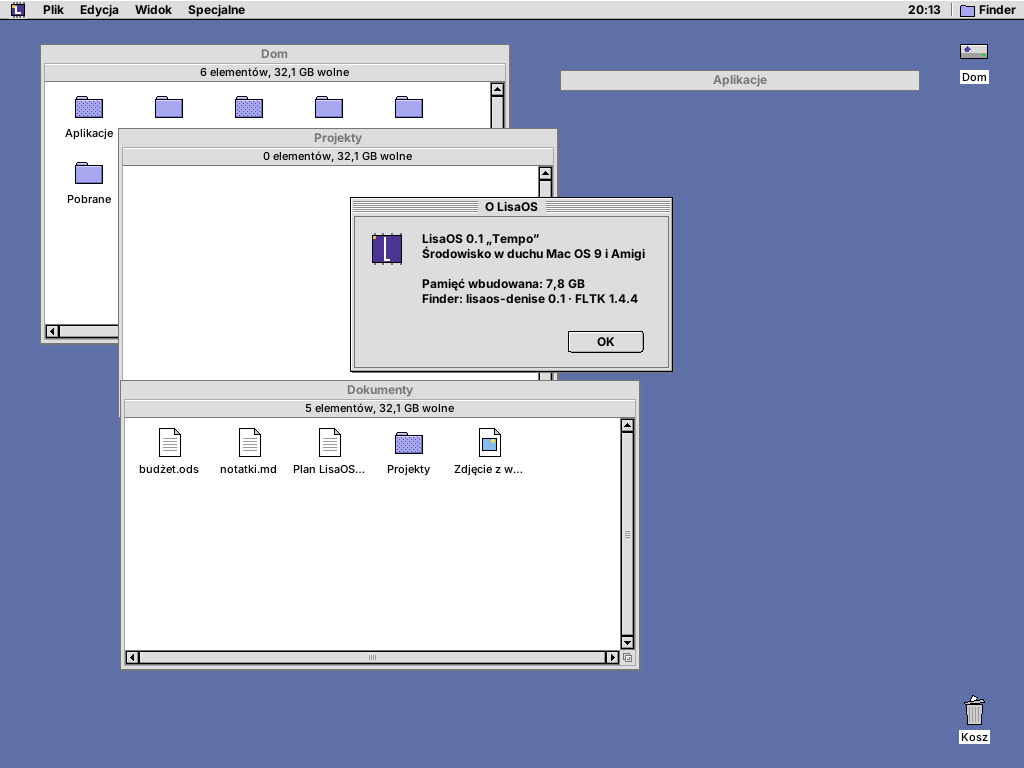
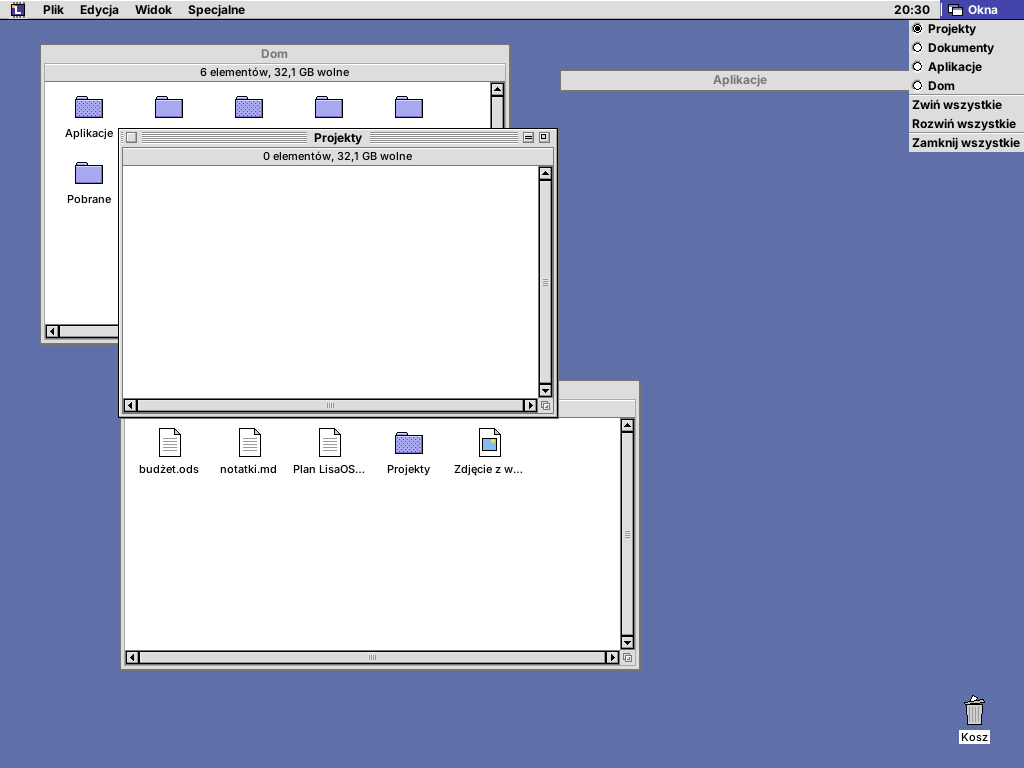
Menu Okna zamiast etykiety Finder
Prawa strona paska menu ma teraz działające menu z listą otwartych
folderów oraz akcjami: zwiń, rozwiń i zamknij wszystkie okna.
Z interfejsu i dokumentacji zniknęła nazwa Finder.

Claude-Session: https://claude.ai/code/session_01CEnPw5iqhrU7RkhjuakvKB

Changed region(s): [[0.0938, 0.25, 0.6562, 0.5625], [0.875, 0.0, 1.0, 0.2188], [0.0938, 0.1562, 0.5625, 0.2188]]

diff --git a/denise/desktop.h b/denise/desktop.h
@@ -1,8 +1,9 @@
-// LisaOS - denise: biurko, pasek menu i zarządzanie oknami Findera
+// LisaOS - denise: biurko, pasek menu i zarządzanie oknami menedżera plików
 #pragma once
 
 #include <FL/Fl_Double_Window.H>
 #include <FL/Fl_Menu_Bar.H>
+#include <FL/Fl_Menu_Button.H>
 #include <FL/Fl_Tiled_Image.H>
 #include <functional>
 #include <memory>
@@ -33,6 +34,9 @@ public:
   void ask_root();
   void refresh_all();
   void quit();
+  void build_windows_menu(Fl_Menu_Button *m);
+  void shade_all(bool shade);
+  void close_all();
 
 private:
   struct Win {

diff --git a/denise/spatial.h b/denise/spatial.h
@@ -1,4 +1,4 @@
-// LisaOS - denise: pamięć przestrzenna Findera
+// LisaOS - denise: pamięć przestrzenna menedżera plików
 // Każdy folder pamięta, gdzie i jak duże było jego okno oraz czy było otwarte.
 // Plik: $XDG_CONFIG_HOME/lisaos/denise.okna (domyślnie ~/.config/...)
 #pragma once

diff --git a/README.md b/README.md
@@ -7,14 +7,14 @@ Lekkie środowisko graficzne dla Linuksa (baza: minimalny Devuan) w duchu
   Aplikacje to pliki AppImage leżące w `~/Aplikacje`; instalacja = przeciągnięcie pliku.
 - **Tryb root**: pełny system plików i ustawienia zaawansowane, uruchamiany przez
   `pkexec`, wyraźnie oznaczony (czerwony chip w logo, plakietka ROOT).
-- **Finder przestrzenny**: jeden folder = jedno okno, które pamięta swoje położenie.
+- **Przestrzenny menedżer plików (Denise)**: jeden folder = jedno okno, które pamięta swoje położenie.
 
 ## Komponenty
 
 | Pakiet              | Rola                                   | Stan        |
 |---------------------|----------------------------------------|-------------|
 | `lisaos-platinum`   | biblioteka wyglądu: kolory, ramki, ikony, chrome okien | prototyp |
-| `lisaos-denise`     | Finder + biurko                         | prototyp    |
+| `lisaos-denise`     | menedżer plików + biurko                | prototyp    |
 | `lisaos-agnus`      | menedżer okien X11 (chrome z libplatinum) | planowany |
 | `lisaos-gary`       | globalny pasek menu, przełącznik aplikacji | planowany |
 | `lisaos-alice`      | panele sterowania                       | planowany   |

diff --git a/docs/ARCHITEKTURA.md b/docs/ARCHITEKTURA.md
@@ -4,7 +4,7 @@
 
     Devuan (runit, elogind, polkit)  ->  X11 (Xorg/XLibre)  ->  lisaos-agnus (WM)
                                                               ->  lisaos-gary (pasek menu)
-                                                              ->  lisaos-denise (Finder/biurko)
+                                                              ->  lisaos-denise (pliki/biurko)
                                                               ->  aplikacje AppImage
 
 Wszystkie komponenty linkują `lisaos-platinum`, więc wygląd jest jeden.
@@ -31,7 +31,7 @@ jednego okna biurka. Docelowo:
 
 ## Model uprawnień
 
-- Tryb prosty: Finder nie otworzy niczego poza `$HOME` (sprawdzanie po
+- Tryb prosty: Denise nie otworzy niczego poza `$HOME` (sprawdzanie po
   `weakly_canonical`, więc dowiązania symboliczne nie wyprowadzą poza Dom).
 - AppImage docelowo uruchamiane przez `bubblewrap`: zapis tylko w `$HOME`,
   system tylko do odczytu, bez dostępu do innych użytkowników.
